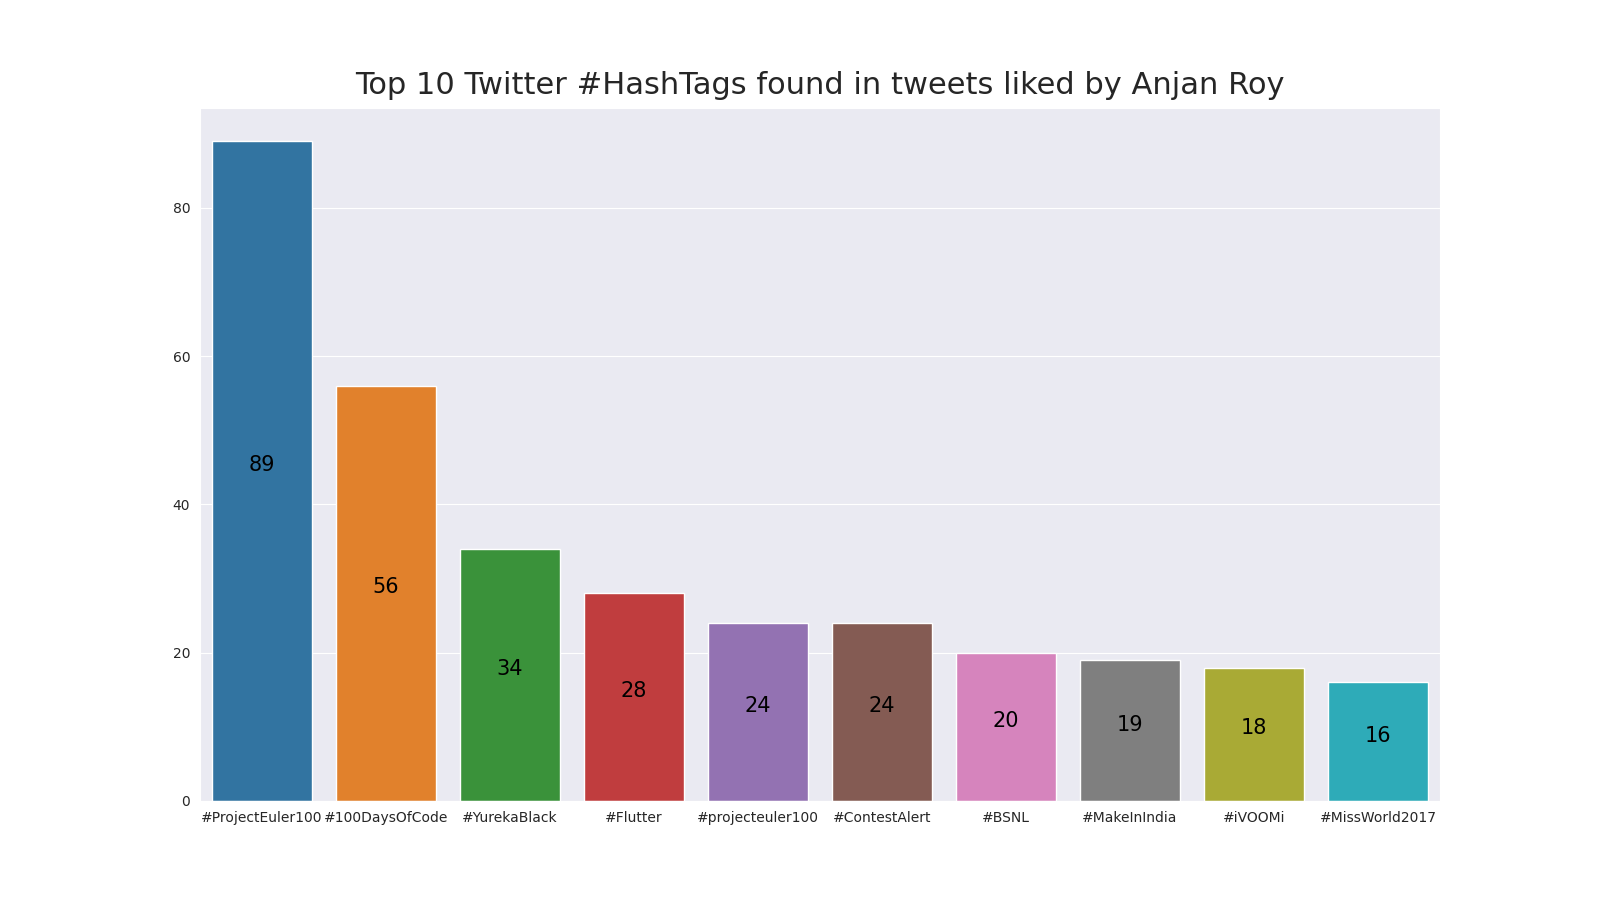
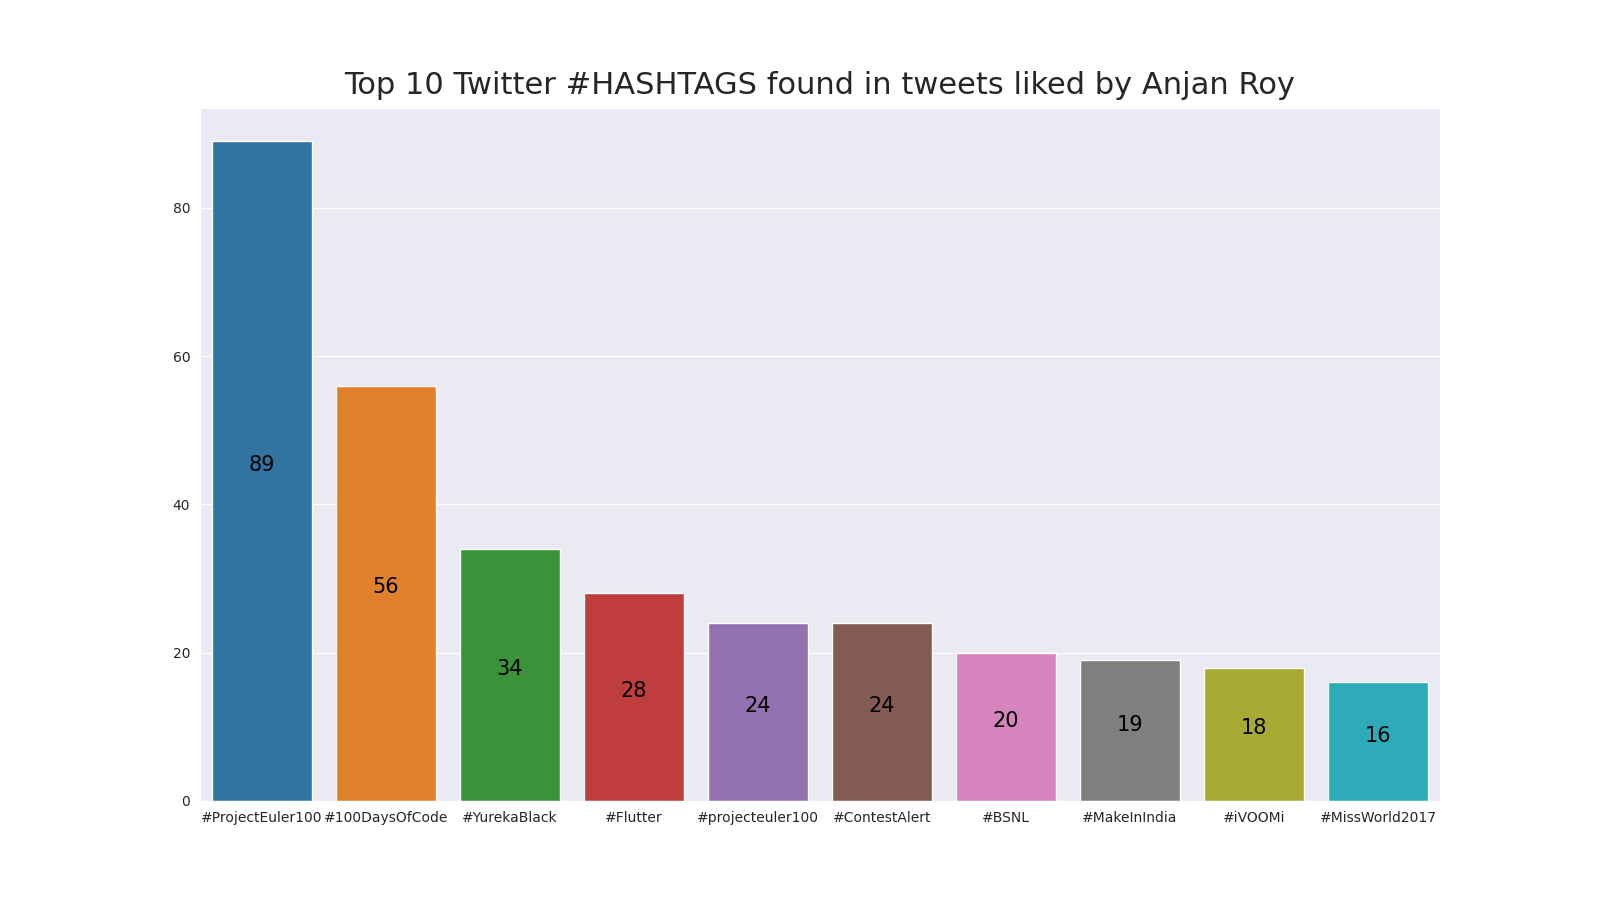
added link to new feature doc, regenerated plot

Changed region(s): [[0.2188, 0.0622, 0.8125, 0.1244]]

diff --git a/README.md b/README.md
@@ -29,4 +29,7 @@ twiz path-to-twitter-data.zip sink/
     - [x] [Twitter Followers And Followings Per Cent](./docs/twitterFollowersAndFollowingsPerCent.md)
     - [x] [Twitter Followers & Followers whom you're following vs Twitter Followings & Followings who're following you](./docs/twitterFollowersFollowingsAndIntersectionForYOU.md)
 
+- Likes
+    - [x] [Top 10 Twitter **#HASHTAGS** found in tweets liked by YOU](./docs/top10TwitterHashTagsFoundInTweetsLikedByYOU.md)
+
 **This section will keep getting populated ;)**
